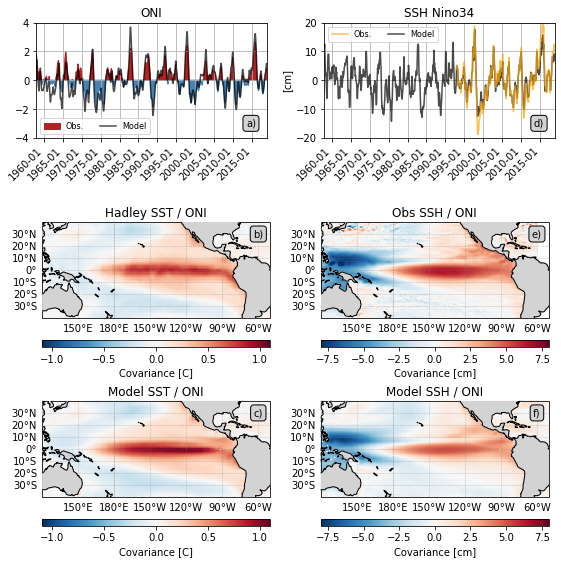
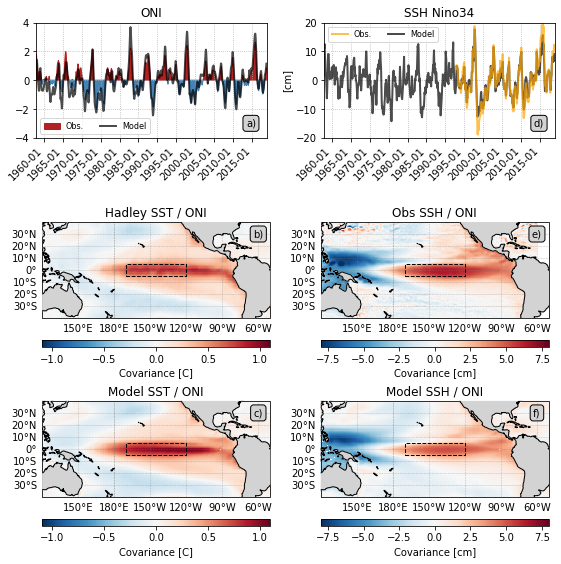
Update figures

diff --git a/scripts/final_figs/fig2/fig2.py b/scripts/final_figs/fig2/fig2.py
@@ -24,6 +24,11 @@ letters = letters[1:]
 proj = ccrs.PlateCarree(central_longitude=180)
 proj2 = ccrs.PlateCarree(central_longitude=0)
 
+latbox = [-2, -2, 2, 2, -2]
+lonbox = [150, 150, -80, -80, 150]
+lonbox = [150, -80 + 360, -80 + 360, 150, 150]
+dictpbox = {'transform': proj2, 'linestyle': '--', 'linewidth': 1, 'color':'k'}
+
 gridparams = {'crs': ccrs.PlateCarree(central_longitude=0), 'draw_labels':True, 'linewidth':0.5, 'color':'gray', 'alpha':0.5, 'linestyle':'--'}
 
 mesh = xr.open_dataset('../../data/mesh_mask_eORCA1_v2.2.nc')
@@ -57,7 +62,7 @@ lontext = 120
 lattext = 30
 
 # processing obs
-data = xr.open_dataset("chl-sat/data/covariance_satellite_data.nc")
+data = xr.open_dataset("data/covariance_satellite_data.nc")
 cov = data['cov'].to_masked_array()
 cov = np.ma.masked_where(cov == 0, cov)
 lon = data['lon'].values
@@ -68,7 +73,8 @@ ax = axgr[iiii]
 ax.set_ylim(-40, 40)
 ax.set_xlim(-60, 130)
 
-cs = ax.pcolormesh(lon, lat, cov, transform=ccrs.PlateCarree())
+cs = ax.pcolormesh(lon, lat, cov, transform=ccrs.PlateCarree(), shading='auto')
+ax.plot(lonbox, latbox, **dictpbox)
 
 cs.set_clim(-ccc, ccc)
 ax.add_feature(cfeature.LAND, zorder=1000, color='lightgray')
@@ -96,7 +102,7 @@ tmask = mesh['tmask'].values[0]
 lonf = mesh['glamf'].values
 latf = mesh['gphit'].values
 
-data = xr.open_dataset("chl-mod/data/cov_modchl_oni_tpi.nc")
+data = xr.open_dataset("data/cov_modchl_oni_tpi.nc")
 cov = data['covoni'].values
 cov = np.ma.masked_where(tmask == 0, cov)
 
@@ -104,6 +110,7 @@ iiii = 1
 ax2 = axgr[iiii]
 
 cs = ax2.pcolormesh(lonf, latf, cov[1:, 1:], transform=proj2)
+ax2.plot(lonbox, latbox, **dictpbox)
 cs.set_clim(-ccc, ccc)
 ax2.add_feature(cfeature.LAND, zorder=1000, color='lightgray')
 ax2.add_feature(cfeature.COASTLINE, zorder=1001)
@@ -134,11 +141,11 @@ iok = np.nonzero((dnino >= 195801) & (dnino <= 201812))[0]
 dnino = dnino[iok]
 nino = nino[iok]
 
-data = xr.open_dataset('chl-mod/data/simulated_equatorial_mean.nc')
+data = xr.open_dataset('data/simulated_equatorial_mean.nc')
 datemod = data['time_counter.year'] * 100 + data['time_counter.month'] 
 datemod = datemod.values
 mod = data['chl'].values
-data = xr.open_dataset('chl-sat/data/obs_equatorial_mean.nc')
+data = xr.open_dataset('data/obs_equatorial_mean.nc')
 obs = data['chl'].values
 date = data['time.year'] * 100 + data['time.month']
 date = date.values
@@ -244,3 +251,6 @@ alpha = 0.7
 # axbis.get_yaxis().set_visible(False)  # removes xlabels
 
 plt.savefig('fig2', bbox_inches='tight')
+# -
+
+
